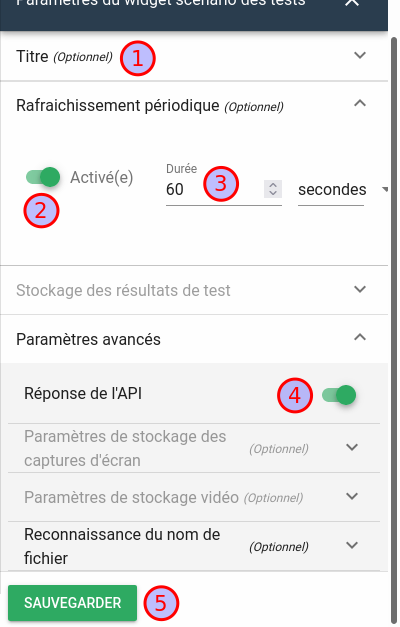
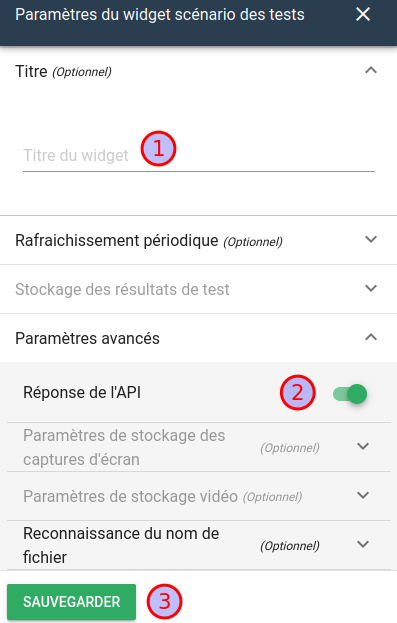
doc(issues/215): rework JUnit documentation

diff --git a/community/sources/docs/fr/guide-utilisation/interface/widgets/junit/index.md b/community/sources/docs/fr/guide-utilisation/interface/widgets/junit/index.md
@@ -15,28 +15,16 @@ Il comprend :
 
 ## Sommaire
 
-1. [Installation](#installation)<br>
- A. [Docker](#docker)<br>
- B. [Paquet](#paquet)<br>
-2. [Configuration](#configuration)<br>
-3. [Création du widget](#creation-du-widget)<br>
- A. [Vue](#vue)<br>
- B. [Widget](#widget)<br>
-4. [Publication de résultat](#publication-de-resultat)<br>
-
-## Installation
-
-### Docker
-
-Depuis la version [4.4.0](../../../../notes-de-version/4.4.0.md), le connecteur `connector-junit` est installé et démarré avec Canopsis.
-
-### Paquet CentOS 7
-
-<!--- TODO --->
+1. [Configuration](#configuration)<br>
+2. [Création du widget](#creation-du-widget)<br>
+3. [Publication de résultat](#publication-de-resultat)<br>
 
 ## Configuration
 
-La configuration peut être changée dans le fichier `canopsis-pro.toml`.
+!!! Info
+    Le share JUnit API doit être partagé entre l’API de Canopsis et le connecteur JUnit.
+
+La configuration peut être changée dans le fichier [canopsis.toml](../../../../guide-administration/administration-avancee/modification-canopsis-toml.md).
 
 *Configuration par défaut :*
 ```
@@ -49,18 +37,6 @@ JunitApi = "/tmp/canopsis/junit"
 ```
 
 ## Création du widget
-
-### Vue
-
-Cliquer sur le bouton **Paramètres**, puis sur le bouton **Créer une vue** :
-
-![Création vue 1/2](./img/vue1.png)
-
-Remplir le formulaire :
-
-![Création vue 2/2](./img/vue2.png)
-
-### Widget
 
 Aller dans la vue créée. Dans le menu latéral, cliquer sur **Ajouter un widget** :
 
@@ -80,9 +56,7 @@ Configurer le scénario en activant la réponse de l’API :
 
 ## Publication de résultat
 
-Publier les résultats via l’API de Canopsis :
-
-![API](./img/api.png)
+Publier les résultats via l’[API de Canopsis](https://doc.canopsis.net/guide-developpement/swagger/#/junit).
 
 *Par exemple via cURL :*
 ```

diff --git a/community/sources/docs/fr/guide-utilisation/interface/widgets/index.md b/community/sources/docs/fr/guide-utilisation/interface/widgets/index.md
@@ -15,6 +15,7 @@ Plusieurs types de widgets sont disponibles dans Canopsis :
     - Courbes
     - Calendrier
     - Texte
+* [Scénarios JUnit](junit/index.md)
 
 ### [Bac à alarmes](bac-a-alarmes/index.md)
 
@@ -82,3 +83,9 @@ Pour les informations concernant le widget en lui-même, voir la partie sur le [
 Le widget **Calendrier** permet d'afficher le nombre d'alarmes par période de temps (par heure, par jour, par mois), dans une vue calendrier.
 
 Pour les informations concernant le widget en lui-même, voir la partie sur le [fonctionnement du calendrier](./stats/index.md)
+
+### Scénarios JUnit
+
+Le widget **JUnit** permet d’afficher les résultats d'exécution de scénarios au format XML JUnit.
+
+Pour les informations concernant le widget en lui-même, voir la page [JUnit](./junit/index.md).
